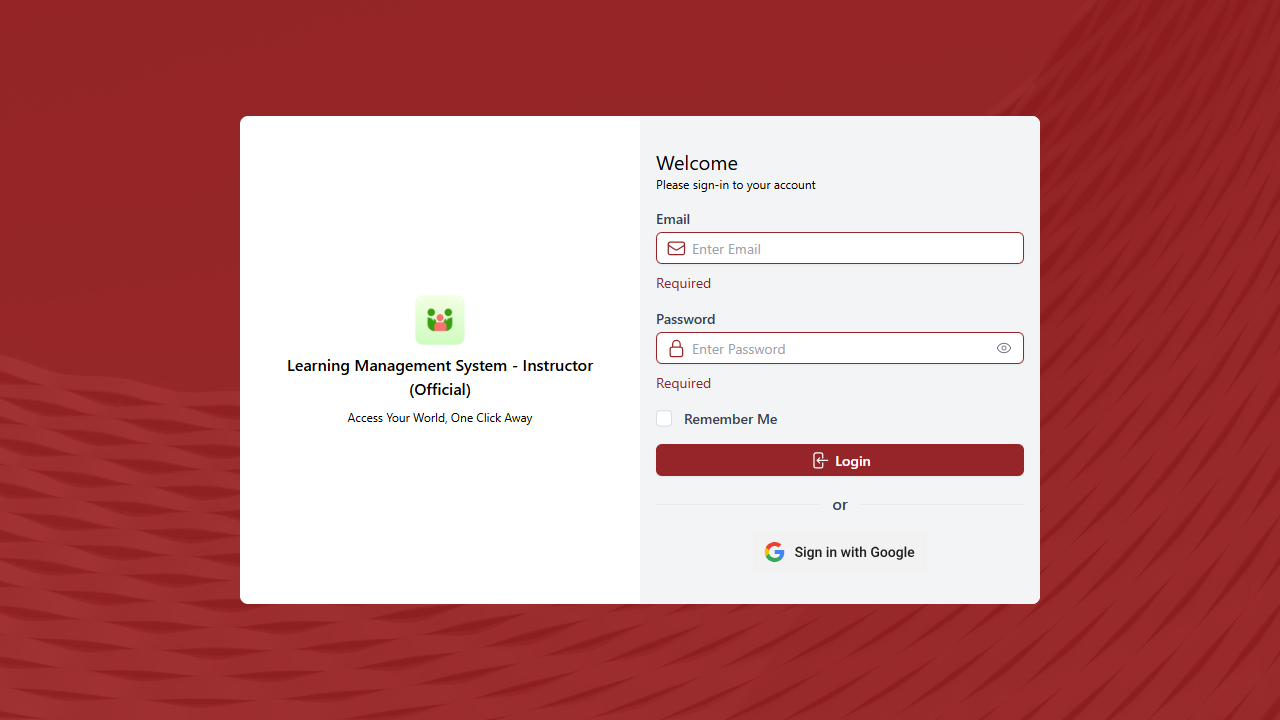
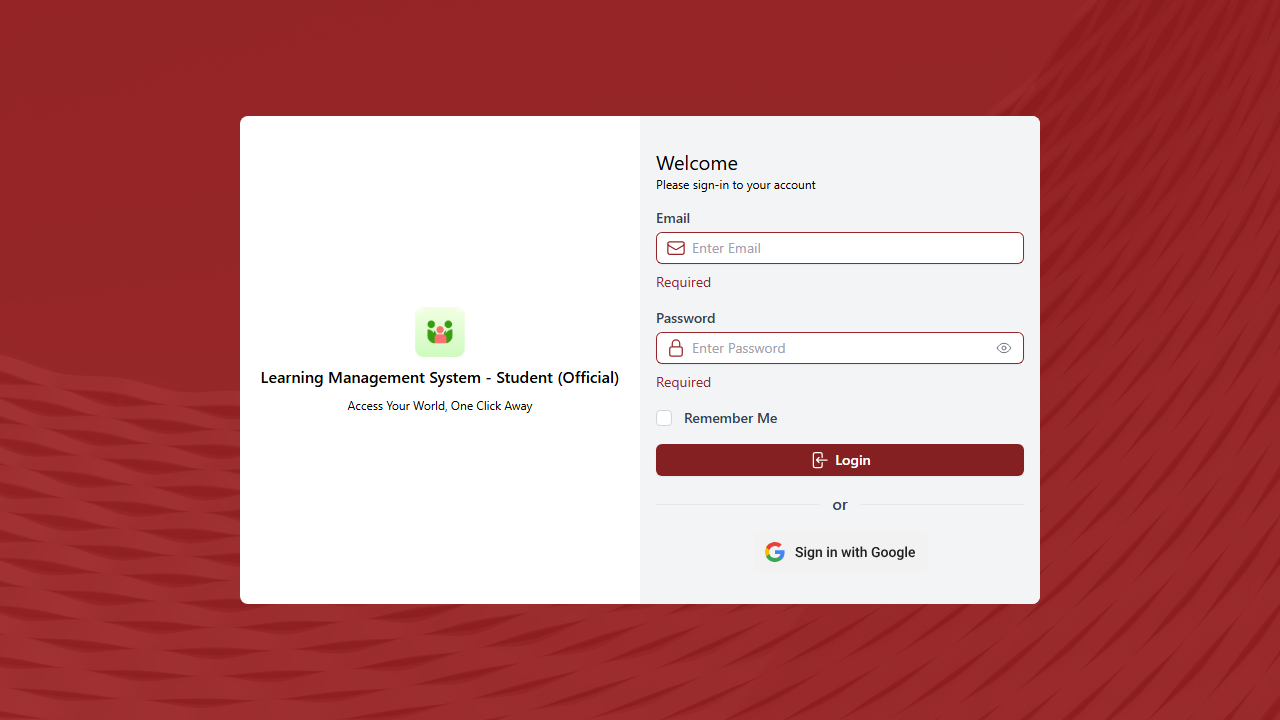
Added Automation script for Student Login Module

diff --git a/tests/Student_Login_Module.spec.ts b/tests/Student_Login_Module.spec.ts
@@ -1,0 +1,228 @@
+import {test, expect} from '@playwright/test';
+import credentials from './credentials.json';
+
+
+
+
+
+test.describe('Login Page Tests', () => {
+    test.beforeEach(async ({page}) => {
+        await page.goto(credentials[0].lms_url_student);
+        await page.waitForLoadState('load');
+    });
+    test ('PT: Valid Login', async ({page}) => {
+        try {
+            await expect(page.getByText("Welcome")).toBeVisible();
+        }
+        catch (error) {
+            console.error('Logo not found on the login page');
+            throw error; // Re-throw to fail the test
+        }
+        try {
+            const placeholders = [
+                "Enter Email",
+                "Enter Password"
+            ]
+            await page.getByPlaceholder(placeholders[0]).click();
+            await page.getByPlaceholder(placeholders[0]).fill(credentials[0].lms_email_student);
+            await page.getByPlaceholder(placeholders[1]).click();
+            await page.getByPlaceholder(placeholders[1]).fill(credentials[0].default_password);
+            await page.locator("text=Login").click();
+            await page.waitForLoadState('load');
+            await expect(page).toHaveURL("https://student.evsu-beta.centralizedinc.com/app/student");
+            await page.waitForSelector('text=Logout');
+            await page.screenshot({ path: 'screenshots/login/PT/student/Valid_Login.png' });
+        }
+        catch (error) {
+            console.error('Login failed:', error);
+            throw error; // Re-throw to fail the test
+        }
+    });
+    test ('NT: Empty Login', async ({page}) => {
+        try {
+            await expect(page.getByText("Welcome")).toBeVisible();
+            await page.waitForLoadState("load");
+        }
+        catch (error) {
+            console.error('Welcome not found on the login page');
+            throw error; // Re-throw to fail the test
+        }
+        try {
+            const placeholders = [
+                "Enter Email",
+                "Enter Password"
+            ]
+            await page.getByPlaceholder(placeholders[0]).click();
+            await page.getByPlaceholder(placeholders[1]).click();
+            await page.locator("text=Login").click();
+            await expect(page.locator("form.space-y-4", { hasText: "required" })).toBeVisible();
+            await page.screenshot({ path: 'screenshots/login/NT/Empty_Login.png' });
+        }
+        catch (error) {
+            console.error('Login failed:', error);
+            throw error; // Re-throw to fail the test
+        }
+    });
+    test ('NT: Empty Password', async ({page}) => {
+        try {
+            await expect(page.getByText("Welcome")).toBeVisible();
+            await page.waitForLoadState("load");
+        }
+        catch (error) {
+            console.error('Welcome not found on the login page');
+            throw error; // Re-throw to fail the test
+        }
+        try {
+            const placeholders = [
+                "Enter Email",
+                "Enter Password"
+            ]
+            await page.getByPlaceholder(placeholders[0]).type(credentials[0].lms_email_student, { delay: 50 });
+            await page.getByPlaceholder(placeholders[1]).click();
+            await page.locator("text=Login").click();
+            await expect(page.locator("form.space-y-4", { hasText: "required" })).toBeVisible();
+            await page.screenshot({ path: 'screenshots/login/NT/student/Empty_password.png' });
+        }
+        catch (error) {
+            console.error('Login failed:', error);
+            throw error; // Re-throw to fail the test
+        }
+    });
+    test ('NT: Empty Email', async ({page}) => {
+        try {
+            await expect(page.getByText("Welcome")).toBeVisible();
+            await page.waitForLoadState("load");
+        }
+        catch (error) {
+            console.error('Welcome not found on the login page');
+            throw error; // Re-throw to fail the test
+        }
+        try {
+            const placeholders = [
+                "Enter Email",
+                "Enter Password"
+            ]
+            await page.getByPlaceholder(placeholders[0]).click();
+            await page.getByPlaceholder(placeholders[1]).type(credentials[0].default_password, { delay: 50 });
+            await page.locator("text=Login").click();
+            await expect(page.locator("form.space-y-4", { hasText: "required" })).toBeVisible();
+            await page.screenshot({ path: 'screenshots/login/NT/student/Empty_email.png' });
+        }
+        catch (error) {
+            console.error('Login failed:', error);
+            throw error; // Re-throw to fail the test
+        }
+    });
+    test ('NT: Invalid Credential', async ({page}) => {
+        try {
+            await expect(page.getByText("Welcome")).toBeVisible();
+            await page.waitForLoadState("load");
+        }
+        catch (error) {
+            console.error('Welcome not found on the login page');
+            throw error; // Re-throw to fail the test
+        }
+        try {
+            const placeholders = [
+                "Enter Email",
+                "Enter Password"
+            ]
+            await page.getByPlaceholder(placeholders[0]).type('asdadasd@gmail.com', { delay: 50 });
+            await page.getByPlaceholder(placeholders[1]).type("invalids", { delay: 50 });
+            await page.locator("text=Login").click();
+            await expect(page.locator("text=Failed")).toBeVisible();
+            await page.screenshot({ path: 'screenshots/login/NT/student/Invalid_Cred.png' });
+        }
+        catch (error) {
+            console.error('Login failed:', error);
+            throw error; // Re-throw to fail the test
+        }
+    });
+    test ('NT: Invalid Email', async ({page}) => {
+        try {
+            await expect(page.getByText("Welcome")).toBeVisible();
+            await page.waitForLoadState("load");
+        }
+        catch (error) {
+            console.error('Welcome not found on the login page');
+            throw error; // Re-throw to fail the test
+        }
+        try {
+            const placeholders = [
+                "Enter Email",
+                "Enter Password"
+            ]
+            await page.getByPlaceholder(placeholders[0]).type('asdadasd@gmail.com', { delay: 50 });
+            await page.getByPlaceholder(placeholders[1]).click();
+            await page.getByPlaceholder(placeholders[1]).fill(credentials[0].default_password);
+            await page.locator("text=Login").click();
+            await expect(page.locator("text=Failed")).toBeVisible();
+            await page.screenshot({ path: 'screenshots/login/NT/student/Invalid_Email.png' });
+        }
+        catch (error) {
+            console.error('Login failed:', error);
+            throw error; // Re-throw to fail the test
+        }
+    });
+    test ('NT: Invalid Password', async ({page}) => {
+        try {
+            await expect(page.getByText("Welcome")).toBeVisible();
+            await page.waitForLoadState("load");
+        }
+        catch (error) {
+            console.error('Welcome not found on the login page');
+            throw error; // Re-throw to fail the test
+        }
+        try {
+            const placeholders = [
+                "Enter Email",
+                "Enter Password"
+            ]
+            await page.getByPlaceholder(placeholders[0]).click();
+            await page.getByPlaceholder(placeholders[0]).fill(credentials[0].lms_email_student);
+            await page.getByPlaceholder(placeholders[1]).type('Invalid_Password', { delay: 50 });
+            await page.locator('span[class="iconify i-iconamoon:eye-light text-gray-500"]').click();
+            await page.locator("text=Login").click();
+            await expect(page.locator("text=Failed")).toBeVisible();
+            await page.screenshot({ path: 'screenshots/login/NT/student/Invalid_Password.png' });
+        }
+        catch (error) {
+            console.error('Login failed:', error);
+            throw error; // Re-throw to fail the test
+        }
+    });
+    test ('PT: Remember Me', async ({page}) => {
+        try {
+            await expect(page.getByText("Welcome")).toBeVisible();
+        }
+        catch (error) {
+            console.error('Logo not found on the login page');
+            throw error; // Re-throw to fail the test
+        }
+        try {
+            const placeholders = [
+                "Enter Email",
+                "Enter Password"
+            ]
+            await page.getByPlaceholder(placeholders[0]).click();
+            await page.getByPlaceholder(placeholders[0]).fill(credentials[0].lms_email_student);
+            await page.getByPlaceholder(placeholders[1]).click();
+            await page.getByPlaceholder(placeholders[1]).fill(credentials[0].default_password);
+            await page.locator("#nYWrWuPJ69t-3").click();
+            await page.locator("text=Login").click();
+            await page.waitForLoadState('load');
+            await expect(page).toHaveURL("https://student.evsu-beta.centralizedinc.com/app/student");
+            await page.waitForSelector('text=Logout');
+            await page.locator("text=Logout").click();
+            await page.locator('//span[normalize-space()="Continue"]').click();
+            await page.waitForLoadState("load");
+            await expect(page).toHaveTitle("DS | Smart Campus")
+            await expect(page.locator(`text=${credentials[0].lmsI_full_name}`)).toBeVisible();
+            await page.screenshot({ path: 'screenshots/login/PT/student/Remember_me.png' });
+        }
+        catch (error) {
+            console.error('Login failed:', error);
+            throw error; // Re-throw to fail the test
+        }
+    });
+});

diff --git a/tests/Instructor_Dashboard_Module.spec.ts b/tests/Instructor_Dashboard_Module.spec.ts
@@ -88,6 +88,8 @@ test.describe('Header Page Test', () => {
             // maskColor: 'white'
         });
     });
+    
+    // Have an issue, Late show of header
     test("PT: Notification", async ({page}) => {
         try {
             await page.waitForLoadState('load')
@@ -105,6 +107,7 @@ test.describe('Header Page Test', () => {
          
 
     })
+    // Have an issue, Late show of header
     test("PT: Profile", async({page}) => {
         try {
             await page.waitForLoadState('load')
@@ -120,6 +123,8 @@ test.describe('Header Page Test', () => {
             console.log('Cannot detect Notification', error);
         }
     });
+
+    
     test("PT: Modules", async ({page}) => {
         await page.waitForLoadState('load');
         for (const module of modules){
